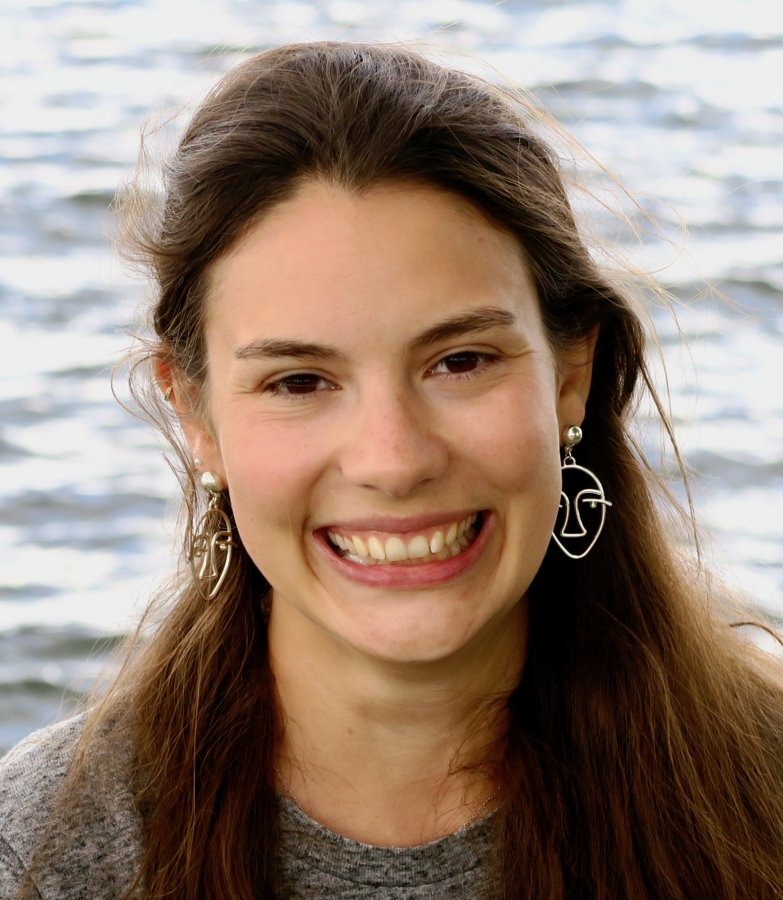
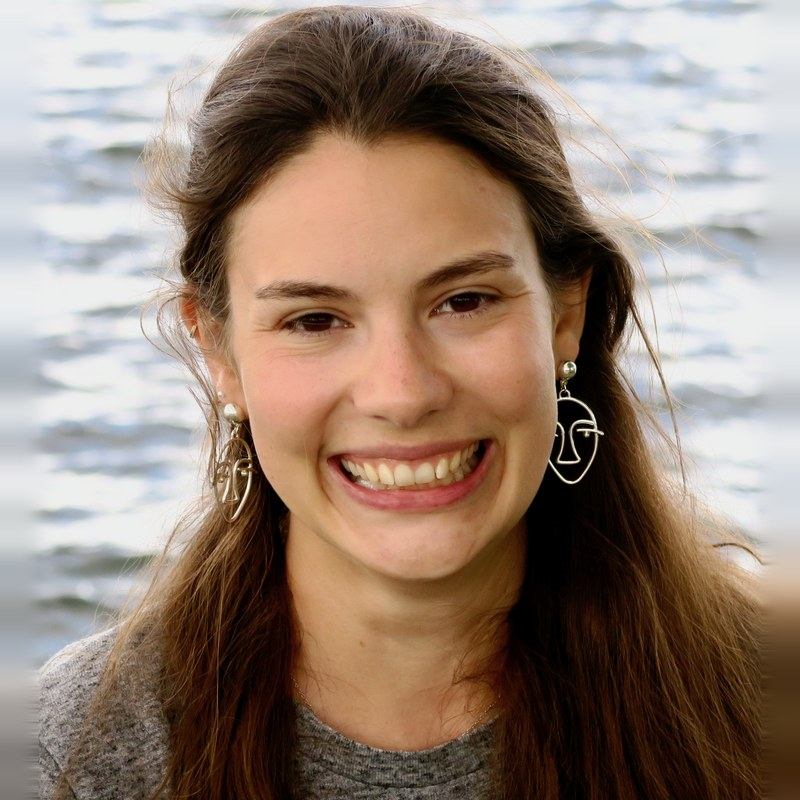
Profile photo: zoomed-out square crop, smaller circle
Claude-Session: https://claude.ai/code/session_01XRTpRZ8eUeJRgS5EVpmc6m

diff --git a/src/styles/global.css b/src/styles/global.css
@@ -82,7 +82,7 @@ section { padding: 0 0 64px; }
 /* Home hero */
 .hero { display: grid; gap: 40px; align-items: center; padding: 32px 0 64px; }
 @media (min-width: 760px) { .hero { grid-template-columns: .8fr 1.2fr; gap: 56px; } }
-.hero-photo { width: 100%; max-width: 340px; margin: 0 auto; aspect-ratio: 1/1; object-fit: cover; object-position: top; border-radius: 50%; border: 5px solid var(--teal); padding: 6px; background: var(--bg); }
+.hero-photo { width: 100%; max-width: 260px; margin: 0 auto; aspect-ratio: 1/1; object-fit: cover; object-position: center; border-radius: 50%; border: 5px solid var(--teal); padding: 6px; background: var(--bg); }
 .hero h1 { margin: 12px 0 18px; }
 .hero .lead { font-size: 18px; max-width: 560px; }
 .link-row { display: flex; flex-wrap: wrap; gap: 6px 20px; margin-top: 8px; font-size: 15px; }
